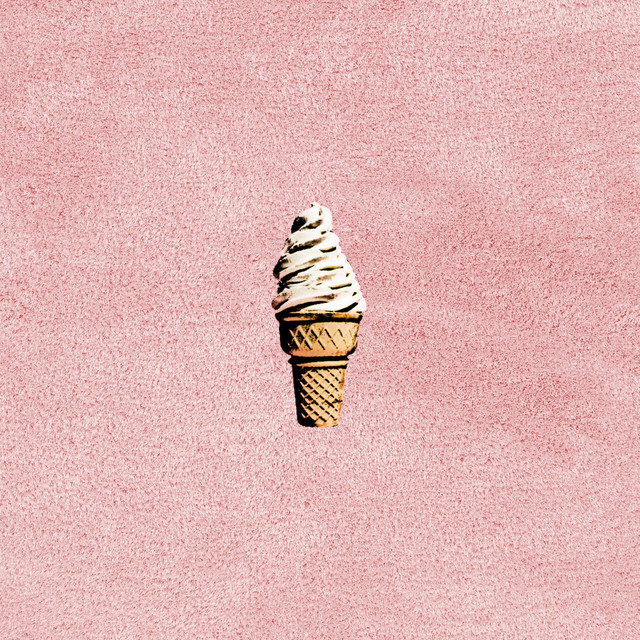
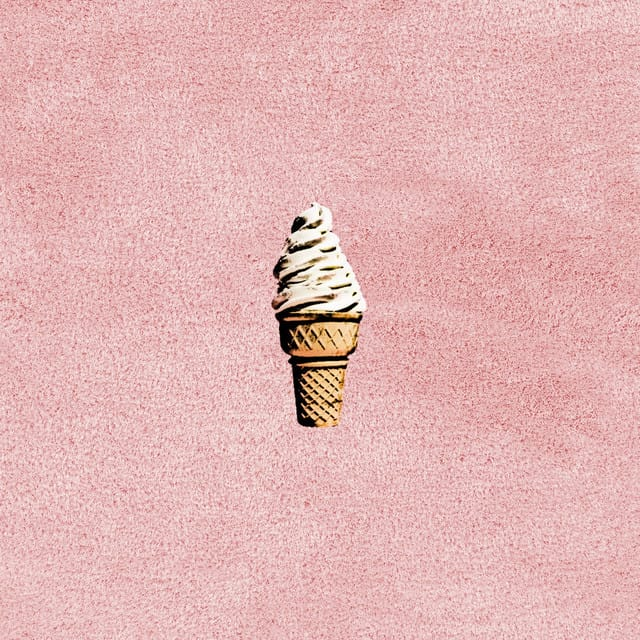
smaller imgs

Changed region(s): [[0.4688, 0.4688, 0.5625, 0.6562], [0.4375, 0.375, 0.4688, 0.4375]]

diff --git a/_posts/2017-11-08-udacity.md b/_posts/2017-11-08-udacity.md
@@ -3,7 +3,7 @@ layout: post
 category: talk
 title: "Udacity"
 date: 2017-11-08
-thumb: udacity.png
+thumb: udacity.jpg
 external: https://www.udacity.com/course/mobile-design-and-usability-for-ios--ud1034
 color: "#00b3e4"
 ---
